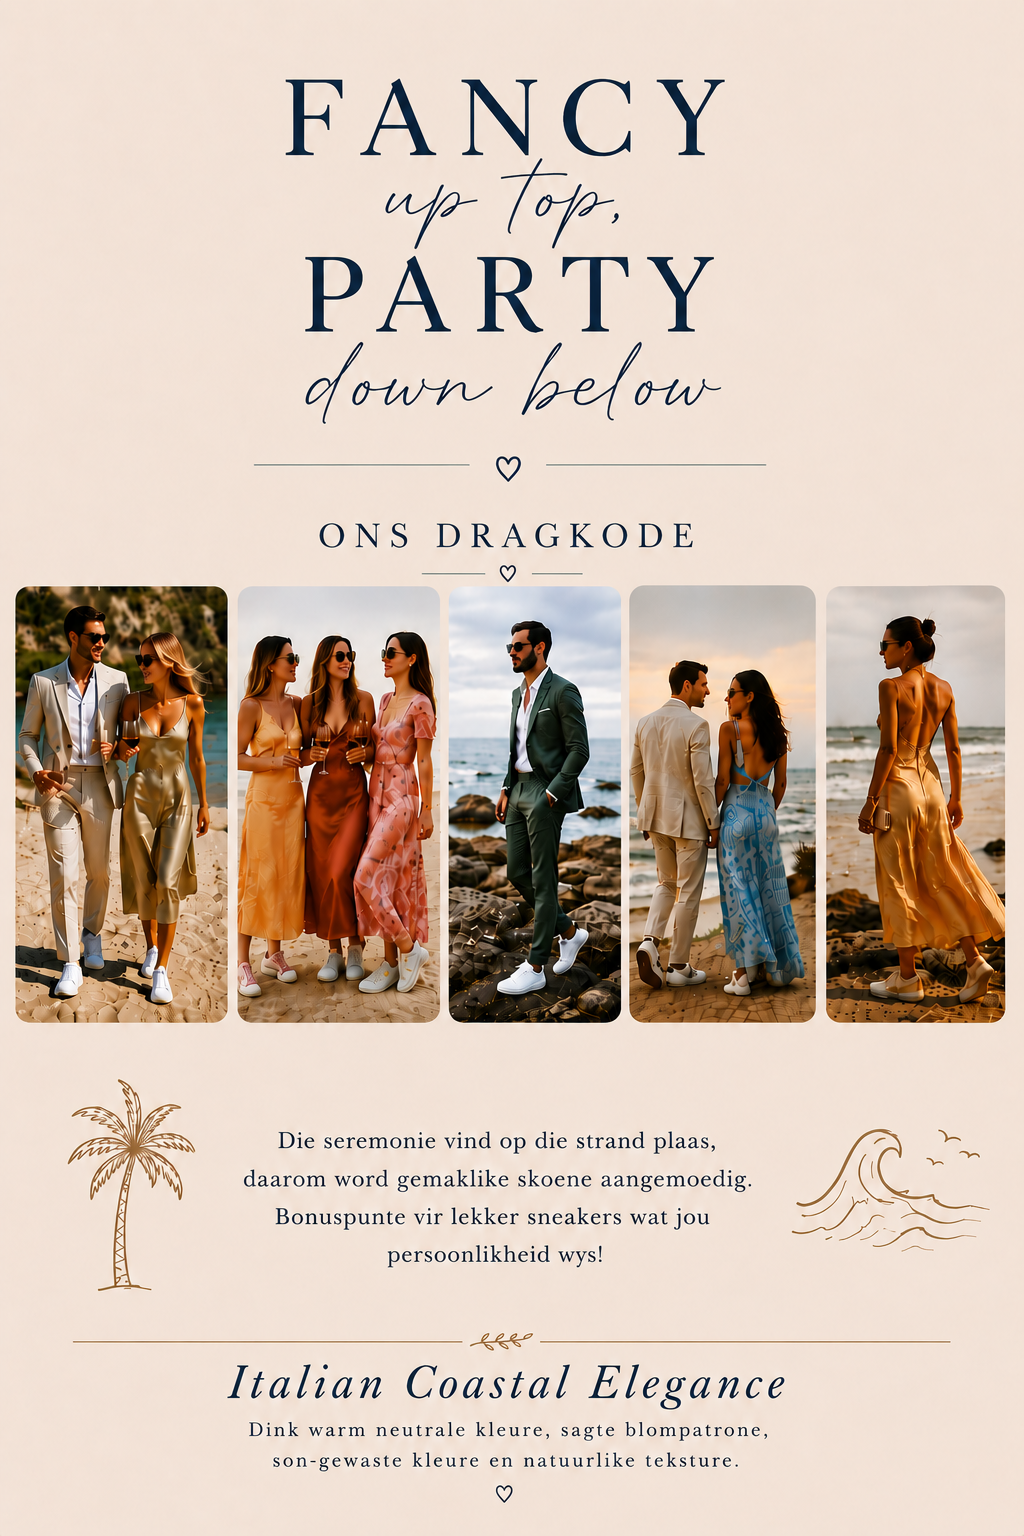
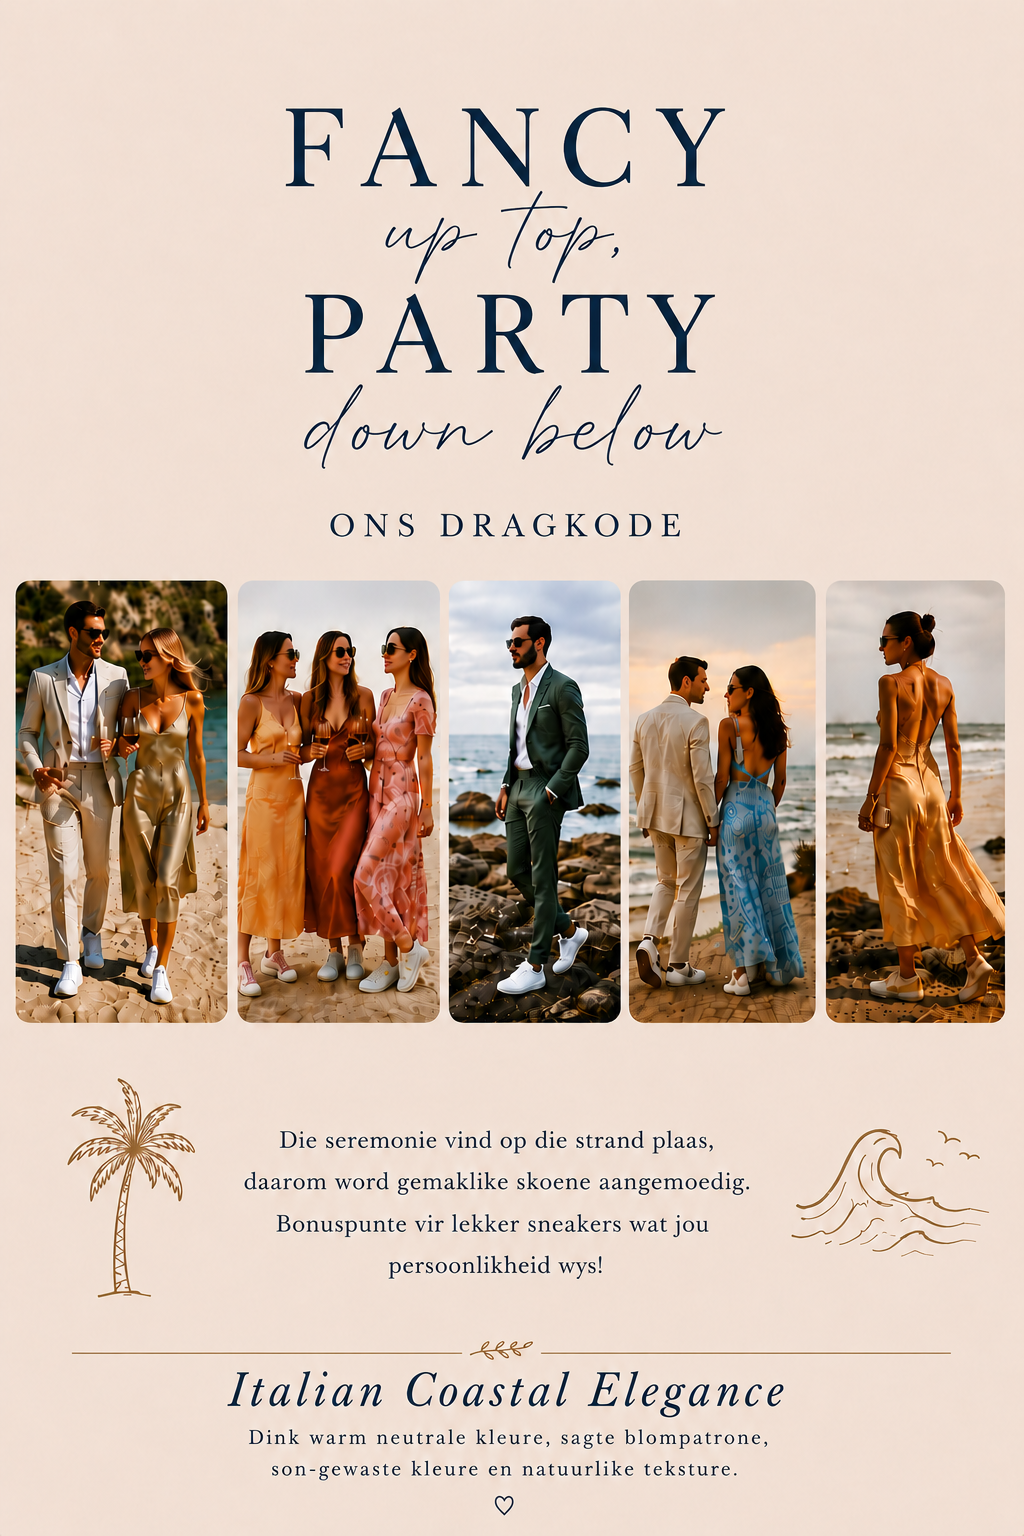
Final Revisions V1

diff --git a/css/main.css b/css/main.css
@@ -231,7 +231,7 @@ h1, h2, h3, h4 {
 }
 
 .hashtag.greyed-out {
-  opacity: 0.4;
+  opacity: 0.6;
   color: rgba(255, 255, 255, 0.5);
 }
 
@@ -545,6 +545,20 @@ h1, h2, h3, h4 {
   .timeline .event:nth-child(odd), .timeline .event:nth-child(even) { left: 0; }
   .timeline .event:after { left: 8px; }
   .timeline .event .event-body { max-width: 100%; }
+}
+
+/* Schedule note: not a timeline entry — present as a simple callout */
+#schedule .timeline-item.note .timeline:before { display: none; }
+#schedule .timeline-item.note .timeline .event { width: 100%; left: 0; padding-left: 0; padding-right: 0; text-align: left; }
+#schedule .timeline-item.note .timeline .event:after { display: none; }
+#schedule .timeline-item.note .timeline .event .event-body {
+  display: block;
+  max-width: 100%;
+  padding: 18px 16px;
+  background: rgba(255, 255, 250, 0.06);
+  border-left: none;
+  border-radius: 10px;
+  box-shadow: none;
 }
 
 /* Mobile: stack hashtags vertically and place countdown to the right of each hashtag */
@@ -873,6 +887,7 @@ footer {
 
 .rsvp-step input[type='text'],
 .rsvp-step input[type='email'],
+.rsvp-step input[type='number'],
 .rsvp-step select,
 .rsvp-step textarea {
   width: 100%;
@@ -886,6 +901,62 @@ footer {
   font: inherit;
   font-size: 1.05rem;
   transition: border-color 200ms ease, box-shadow 200ms ease;
+}
+
+/* Hide native number input controls but keep accessibility (visual custom appearance) */
+.rsvp-step input[type='number']::-webkit-outer-spin-button,
+.rsvp-step input[type='number']::-webkit-inner-spin-button {
+  -webkit-appearance: none;
+  margin: 0;
+}
+.rsvp-step input[type='number'] {
+  -moz-appearance: textfield; /* Firefox */
+  appearance: textfield;
+}
+
+/* Give number inputs a slightly tighter visual width for the value while keeping full-width layout */
+.rsvp-step input[type='number'] { padding-right: 10px; }
+
+/* Number input with custom +/- controls */
+.number-input {
+  display: inline-flex;
+  align-items: center;
+  gap: 8px;
+}
+.number-input input[type="number"] {
+  -webkit-appearance: none;
+  -moz-appearance: textfield;
+  appearance: textfield;
+  height: 48px;
+  padding: 12px 14px;
+  min-width: 84px;
+  text-align: center;
+  border-radius: 12px;
+  border: 1px solid rgba(78,58,47,0.14);
+  background: rgba(255,255,250,0.9);
+  font-size: 1.05rem;
+}
+.number-input button {
+  display: inline-flex;
+  align-items: center;
+  justify-content: center;
+  width: 40px;
+  height: 40px;
+  border-radius: 999px;
+  border: 1px solid rgba(78,58,47,0.14);
+  background: white;
+  color: var(--deep);
+  font-size: 1.1rem;
+  cursor: pointer;
+  transition: transform 160ms ease, background 160ms ease;
+}
+.number-input button:hover { transform: translateY(-2px); background: rgba(244,232,216,0.9); }
+.number-input button:active { transform: translateY(0); }
+
+@media (max-width: 760px) {
+  .number-input { gap: 6px; }
+  .number-input input[type="number"] { min-width: 72px; height: 44px; }
+  .number-input button { width: 36px; height: 36px; }
 }
 
 .rsvp-step textarea {

diff --git a/js/rsvp.js b/js/rsvp.js
@@ -333,4 +333,49 @@
   });
 
   updateStep();
+
+  // Setup increment/decrement controls for number inputs (party size)
+  function setupNumberControls() {
+    const wrapper = form.querySelector('.number-input');
+    if (!wrapper) return;
+    const input = wrapper.querySelector('input[type="number"]');
+    const dec = wrapper.querySelector('.number-decrement');
+    const inc = wrapper.querySelector('.number-increment');
+    if (!input || !dec || !inc) return;
+
+    function clampAndEmit() {
+      const min = parseInt(input.getAttribute('min') || '1', 10);
+      const max = parseInt(input.getAttribute('max') || '999', 10);
+      let v = parseInt(input.value, 10);
+      if (Number.isNaN(v)) v = min;
+      v = Math.max(min, Math.min(max, v));
+      input.value = v;
+      // dispatch input event so other logic (validation/step routing) responds
+      input.dispatchEvent(new Event('input', { bubbles: true }));
+      input.dispatchEvent(new Event('change', { bubbles: true }));
+    }
+
+    dec.addEventListener('click', () => {
+      const step = parseInt(input.getAttribute('step') || '1', 10);
+      input.value = String((parseInt(input.value || '0', 10) || 0) - step);
+      clampAndEmit();
+    });
+
+    inc.addEventListener('click', () => {
+      const step = parseInt(input.getAttribute('step') || '1', 10);
+      input.value = String((parseInt(input.value || '0', 10) || 0) + step);
+      clampAndEmit();
+    });
+
+    // ensure manual typing clamps value too
+    input.addEventListener('blur', clampAndEmit);
+    input.addEventListener('keydown', (e) => {
+      // allow arrow keys to increment/decrement
+      if (e.key === 'ArrowUp') { e.preventDefault(); inc.click(); }
+      if (e.key === 'ArrowDown') { e.preventDefault(); dec.click(); }
+    });
+  }
+
+  // initialize controls once DOM is ready
+  setupNumberControls();
 })();

diff --git a/rsvp.html b/rsvp.html
@@ -77,9 +77,13 @@
 
                 <div class="rsvp-step" data-step data-party-size-step>
                     <p class="question-number">Groep grootte</p>
-                    <label for="partyTotal">Hoeveel mense in jou groep (insluitend jy)?</label>
-                    <p class="question-help">Voeg asseblief die totale aantal mense wat jy vir wil RSVP.</p>
-                    <input id="partyTotal" name="party-total" type="number" min="1" max="20" value="1" required>
+                    <label for="partyTotal">Vir hoeveel mense wil jy RSVP (insluitend jy)?</label>
+                    <p class="question-help">Kies asseblief die totale aantal mense waarvoor jy vir wil RSVP soos per jou uitnodig.</p>
+                                        <div class="number-input">
+                                            <button type="button" class="number-decrement" aria-label="Verminder aantal">−</button>
+                                            <input id="partyTotal" name="party-total" type="number" min="1" max="20" value="1" required>
+                                            <button type="button" class="number-increment" aria-label="Verhoog aantal">+</button>
+                                        </div>
                 </div>
 
                 <div class="rsvp-step" data-step data-attending-step>
@@ -90,7 +94,7 @@
 
                 <div class="rsvp-step" data-step data-attending-step>
                     <label for="transport">Shuttle diens</label>
-                    <p class="question-help">Indien daar n shuttle-service is vanaf die lughawe na die venue (en terug), sal julle daarvan wil gebruik maak? Indien daar genoeg belangstelling is, sal verdere reelings getref word met julle as julle "Ja" kies.</p>
+                    <p class="question-help">Indien daar n shuttle-service is vanaf die lughawe na die venue (en terug), sal julle daarvan wil gebruik maak? Indien daar genoeg belangstelling is, sal verdere reëlings getref word met julle as julle "Ja" kies.</p>
                     <select id="transport" name="transport" required>
                         <option value="" selected disabled>Kies 'n opsie</option>
                         <option value="Yes">Ja, asseblief</option>

diff --git a/index.html b/index.html
@@ -127,7 +127,7 @@
                     </div>
                 </div>
 
-                <div class="timeline-item">
+                <div class="timeline-item note">
                     <h3>Nota</h3>
                     <div class="timeline">
                         <div class="event">